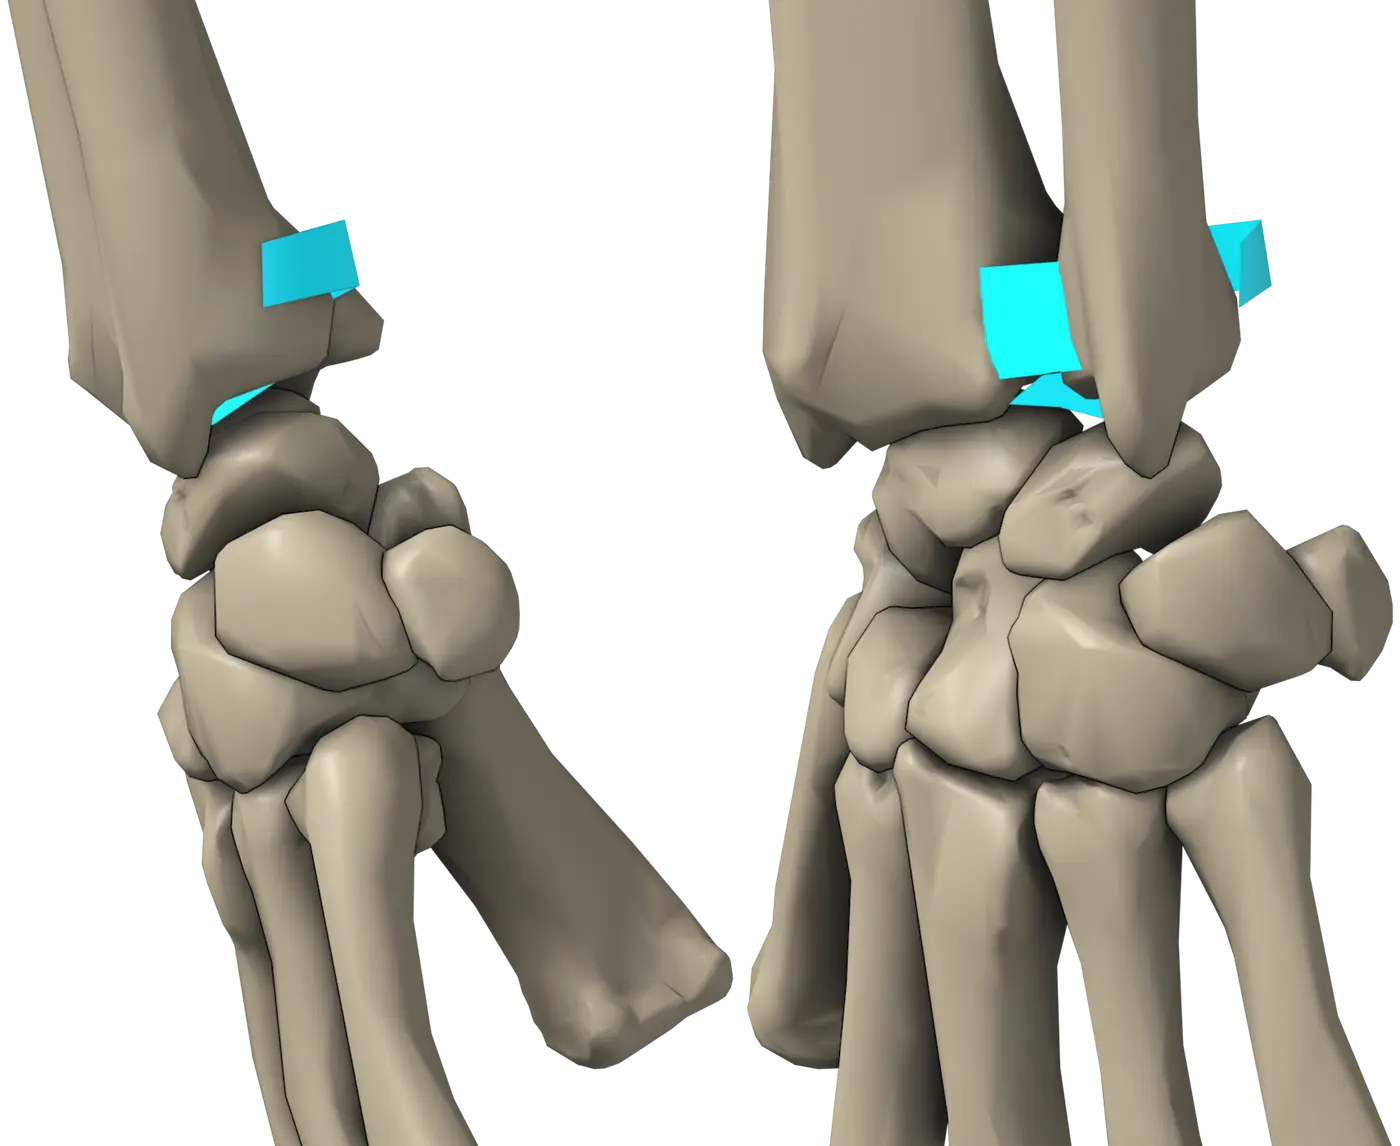
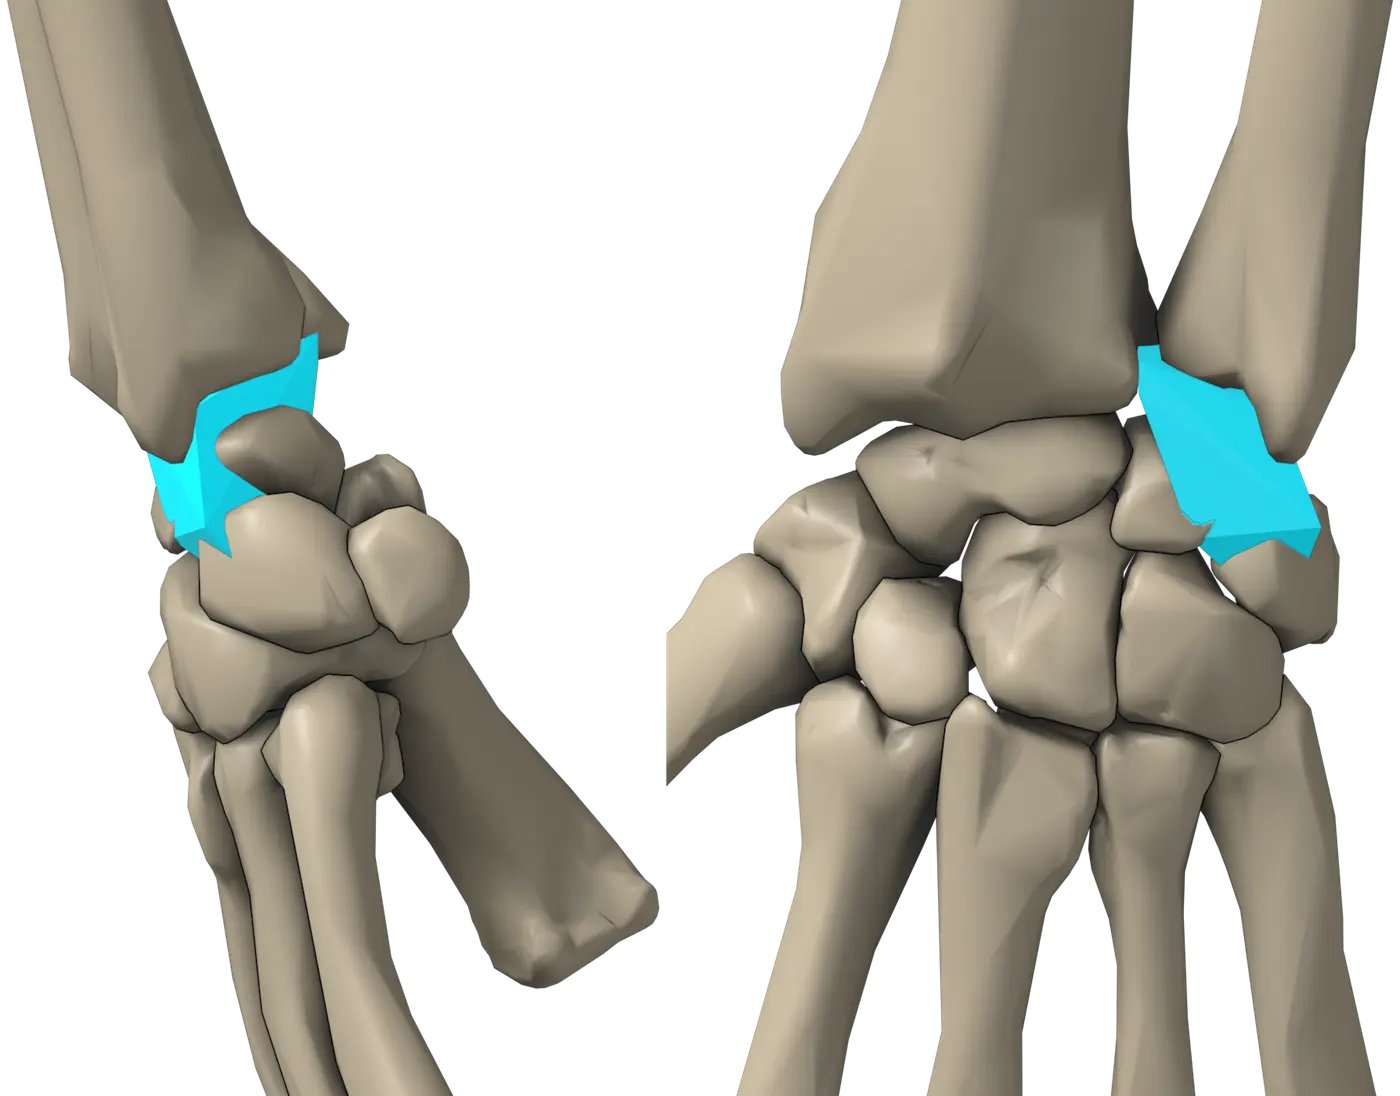
Redraw the TFCC as a measured disc and ulnocarpal wedge, and the alar ligaments on C1-C2 from above
Owner's reference plates: the model's TFCC pieces render as blocks.

diff --git a/src/features/anatomy-revision/data/seed/panels.generated.ts b/src/features/anatomy-revision/data/seed/panels.generated.ts
@@ -21,7 +21,7 @@ export interface MusclePanel {
 
 export const MUSCLE_PANELS: MusclePanel[] = [
   { structureId: 'acromioclavicular-joint', region: 'shoulder-arm', subregion: 'shoulder', layer: 'skeletal', width: 2627, height: 900 },
-  { structureId: 'alar-ligaments', region: 'back-core', subregion: 'neck', layer: 'skeletal', width: 1400, height: 728 },
+  { structureId: 'alar-ligaments', region: 'back-core', subregion: 'neck', layer: 'skeletal', width: 1060, height: 469 },
   { structureId: 'anatomical-snuffbox', region: 'forearm-hand', subregion: 'wrist-hand', layer: 'landmark', width: 1400, height: 1115 },
   { structureId: 'atlas-c1', region: 'back-core', subregion: 'neck', layer: 'skeletal', width: 2148, height: 900 },
   { structureId: 'axis-c2', region: 'back-core', subregion: 'neck', layer: 'skeletal', width: 2700, height: 900 },
@@ -103,7 +103,7 @@ export const MUSCLE_PANELS: MusclePanel[] = [
   { structureId: 'transverse-tarsal-joint', region: 'lower-leg-foot', subregion: 'ankle-foot', layer: 'skeletal', width: 1379, height: 523 },
   { structureId: 'trapezium', region: 'forearm-hand', subregion: 'wrist-hand', layer: 'landmark', width: 1490, height: 1437 },
   { structureId: 'trapezoid', region: 'forearm-hand', subregion: 'wrist-hand', layer: 'landmark', width: 1490, height: 1437 },
-  { structureId: 'triangular-fibrocartilage-complex', region: 'forearm-hand', subregion: 'wrist-hand', layer: 'skeletal', width: 1400, height: 1146 },
+  { structureId: 'triangular-fibrocartilage-complex', region: 'forearm-hand', subregion: 'wrist-hand', layer: 'skeletal', width: 1400, height: 1096 },
   { structureId: 'triquetrum', region: 'forearm-hand', subregion: 'wrist-hand', layer: 'landmark', width: 1490, height: 1437 },
   { structureId: 'twelfth-rib', region: 'back-core', subregion: 'torso', layer: 'landmark', width: 2314, height: 900 },
   { structureId: 'ulna', region: 'forearm-hand', subregion: 'elbow', layer: 'skeletal', width: 898, height: 1387 },

diff --git a/src/scripts/blender/renderMusclePanels.py b/src/scripts/blender/renderMusclePanels.py
@@ -316,9 +316,10 @@ def build_mesh(spec, mesh_name):
       {"kind": "tube", "paths": [[[x,y,z], ...], ...], "radius": m}
           a round cord along each path of world-millimetre points, smoothed
           through them: a ligament as a band between its measured attachments.
-      {"kind": "hull", "objects": [names]}
-          the convex hull of the named objects' vertices: the patellar
-          ligament as the solid spanning its two attachment patches.
+      {"kind": "hull", "objects": [names], "points": [[x,y,z], ...]}
+          the convex hull of the named objects' vertices and/or measured
+          points: the patellar ligament as the solid spanning its two
+          attachment patches, the TFCC's disc as the slab through its corners.
     """
     out = bmesh.new()
     if spec["kind"] == "tube":
@@ -343,8 +344,10 @@ def build_mesh(spec, mesh_name):
             bpy.data.objects.remove(ob)
             bpy.data.curves.remove(cu)
     elif spec["kind"] == "hull":
-        pts = []
-        for n in spec["objects"]:
+        # Measured points (world mm) as well as, or instead of, objects: a
+        # triangular disc is the hull of its corners above and below its plane.
+        pts = [mathutils.Vector(c) / 1000.0 for c in spec.get("points", [])]
+        for n in spec.get("objects", []):
             src = bpy.data.objects.get(n)
             if src and src.type == "MESH":
                 pts += [src.matrix_world @ v.co for v in src.data.vertices]
